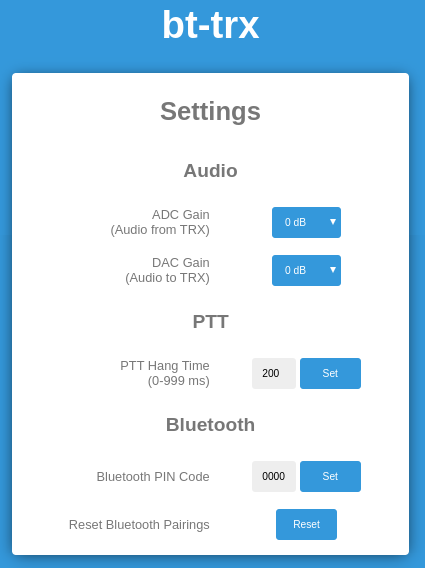
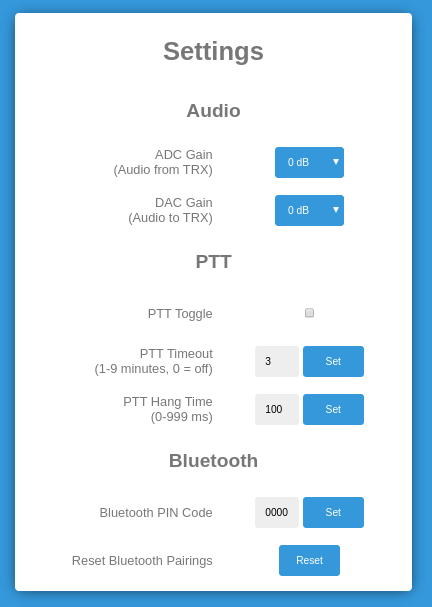
Infos zu neuen PTT Feautes eingefügt

diff --git a/docs/30_Bedienung/Konfiguration.md b/docs/30_Bedienung/Konfiguration.md
@@ -12,7 +12,7 @@
 !!! info "Javascript notwendig"
     Um das Webinterface zu nutzen, muss im Browser Javascript aktiviert sein.
 
-!!! info "BLE im WLAN-Modus nicht verfügbar"
+!!! warning "BLE im WLAN-Modus nicht verfügbar"
     Während der WLAN-Modus aktiv ist, kann keine Verbindung mit einem BLE PTT
     Button hergestellt werden.  
     BLE ist währenddessen deaktiviert.
@@ -35,12 +35,26 @@ werden (-42...+24 dB).
 
 ### PTT
 
+!!! info
+    Für die nachfolgenden PTT Features muss Jumper J5 auf "uC" gesetzt sein
+    ("Soft-PTT Modus").
+
+#### PTT Toggle
+
+Wenn diese Option aktiviert ist, wird PTT beim einmaligen Drücken so lange
+aktiviert, bis es durch nochmaliges Drücken der PTT Taste wieder deaktiviert
+wird.
+
+#### PTT Timeout
+
+Legt fest, wie lange PTT am Stück aktiviert werden kann
+("maximum time of transmit").  
+Erlaubte Werte: 1-9 Minuten (0 deaktiviert den Timeout).
+
 #### PTT Hang Time
 
 Zeit, die PTT nach Loslassen der PTT Taste noch aktiv bleibt, um die
 Signalverzögerung der Freisprecheinrichtung auszugleichen.
-
-**Wichtig:** Jumper J5 muss auf "uC" gesetzt sein ("Soft-PTT Modus").
 
 ### Bluetooth
 
